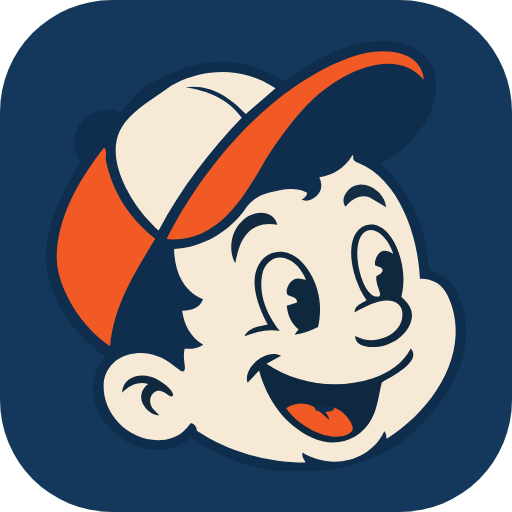
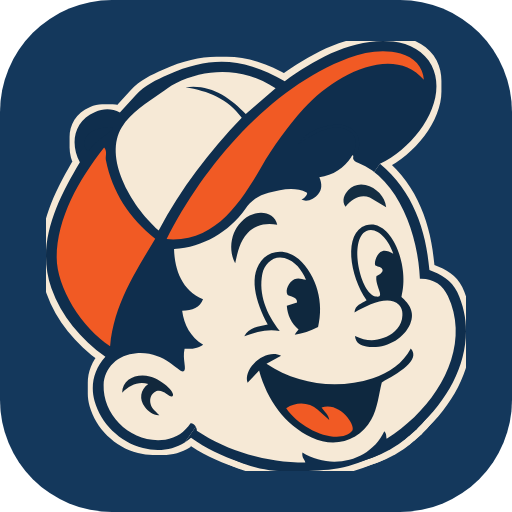
Fix mascot head on dark backgrounds; remove stray tongue blob
Two art fixes.

1. The head's outermost line is marina navy, so on the navy profile
   picture (and on the navy favicon) the silhouette sank into the
   background. Added mascot-face-knockout.svg: the same paths with a
   thin cream halo behind them, built with an feMorphology dilate ->
   feFlood -> feComposite filter rather than a redrawn outline, so it
   can never drift from the mascot. mascot-face.svg is unchanged and
   still the right file for light backgrounds (the nav).

   Applied to pfp-head-navy.png and to icon.png / apple-icon.png /
   logo-icon.png, which had the same navy-on-navy problem.

2. Removed a stray navy ellipse sitting on the tongue in
   mascot-face.svg and mascot-face-2.svg. The full logo and the fishing
   mascot don't have it -- their tongues are plain orange with a notch
   -- so these two face crops were the odd ones out. This also fixes
   the nav mascot sitewide.

Regenerated every social image that contains the face.

diff --git a/public/images/brand/social/README.md b/public/images/brand/social/README.md
@@ -8,6 +8,9 @@ Nothing on the website links to these; they live here so they can be
 downloaded on a phone straight from the live site.
 
   pfp-head-navy.png            mascot head, marina navy background
+                               (uses mascot-face-knockout.svg -- the version
+                               with the thin cream halo, so the head does not
+                               sink into the navy)
   pfp-head-cream.png           mascot head, salt cream background
   pfp-head-orange.png          mascot head, jacksonville orange background
   pfp-lockup-cream.png         head + HAUL ABOARD lettering, cream
